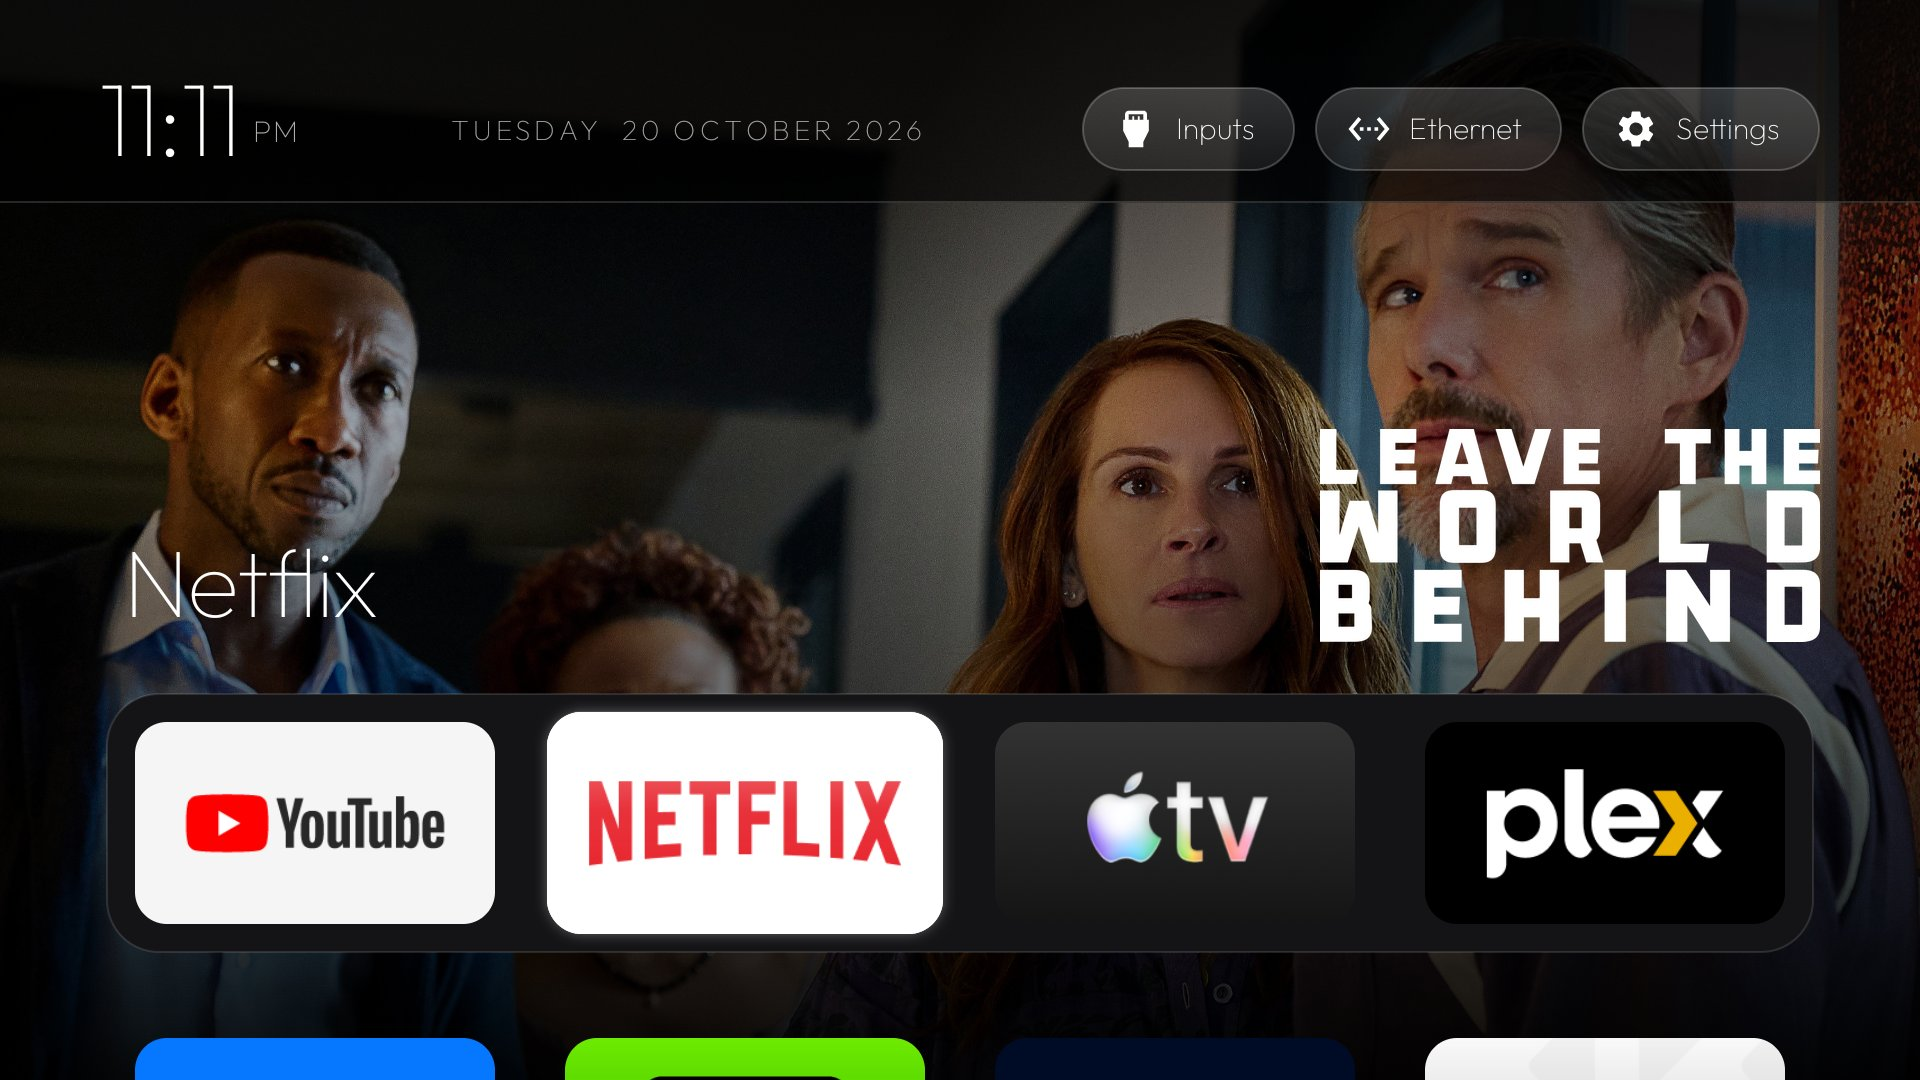
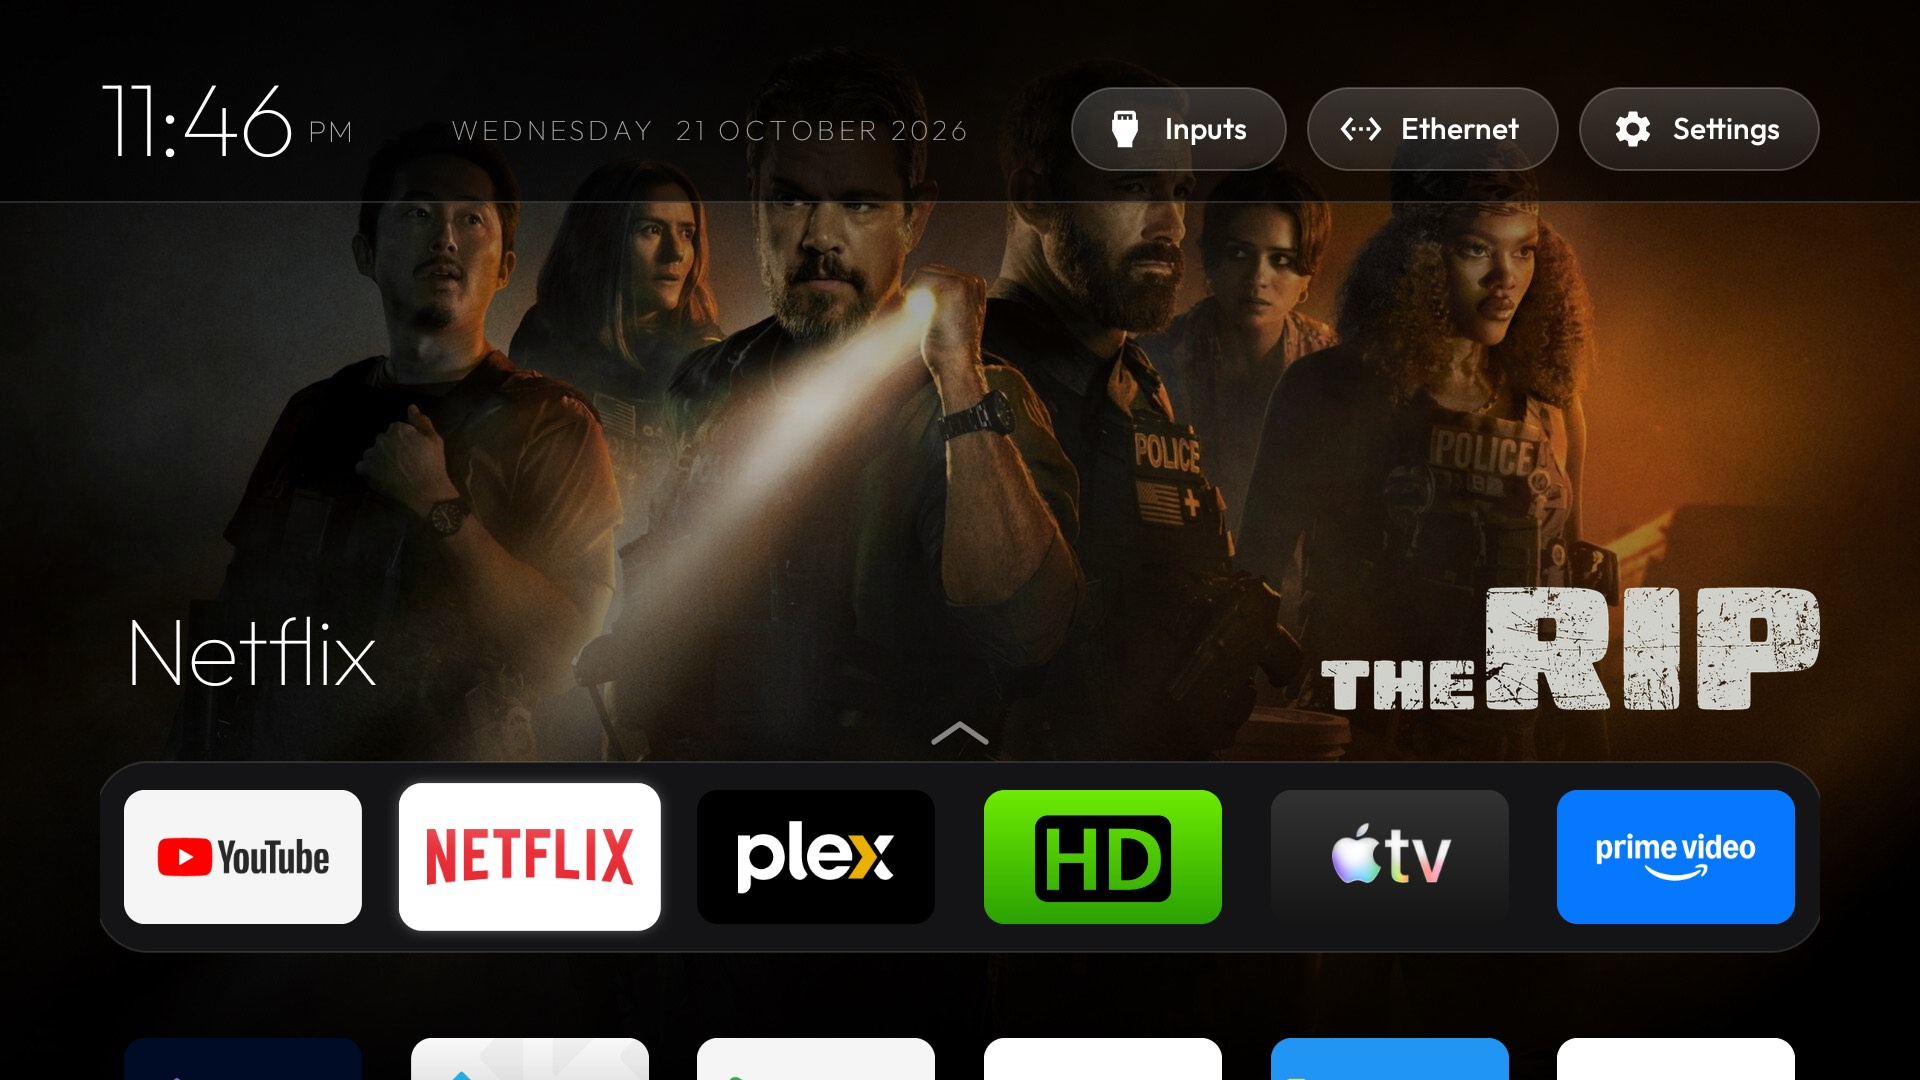
Back to Home without rebuilding the tiles unless apps changed; new screenshots; 1.7.1
Ported from upstream #666: the package receiver lives as long as Home, and in
the background only marks the tiles stale; on resume PackageManager's change
counter catches a missed broadcast. Back from an app with no change, the tiles
stay and only the focused app's picture is renewed (454 ms against 890 ms for a
rebuild on the 940E). After upstream #669, the network pill is no longer
refreshed every minute but when focus reaches the top bar. Carets hide while a
menu or dialog has the window. README screenshots retaken on 1.7.0, with the
picture-alone view added.

Claude-Session: https://claude.ai/code/session_015hnSv5mNfh5ynh98j6bCDo

diff --git a/vibe-launcher/app/src/main/java/com/maydings/vibelauncher/MainActivity.java b/vibe-launcher/app/src/main/java/com/maydings/vibelauncher/MainActivity.java
@@ -13,6 +13,7 @@ import android.content.Context;
 import android.content.Intent;
 import android.content.IntentFilter;
 import android.content.pm.ApplicationInfo;
+import android.content.pm.ChangedPackages;
 import android.content.pm.PackageManager;
 import android.content.res.ColorStateList;
 import android.graphics.Bitmap;
@@ -186,10 +187,16 @@ public class MainActivity extends Activity implements AppAdapter.TileListener {
     private int lastFocused = 0;
     private float density;
     /**
-     * Rebuild Home on resume: an app covered it (or it is starting). Not after a side panel such as the
-     * TV's Settings, which only pauses Home: nothing changed underneath, so Home stays as it was.
+     * Rebuild the tiles on resume: Home is starting, or let go of them for memory (onTrimMemory), or a
+     * permission came in. Coming back from an app rebuilds them only if apps changed meanwhile.
      */
     private boolean rebuildOnResume = true;
+    /** Home was covered by an app (stopped) since the last resume: a new picture for this visit. */
+    private boolean backFromApp;
+    /** An app was installed, updated, removed, enabled or disabled while Home was stopped. */
+    private boolean appsChanged;
+    /** PackageManager's change counter at the last rebuild, for a change whose broadcast never came. */
+    private int packageSequence;
     /** Home was pressed while Home was in front: go back to the first dock tile. */
     private boolean homeToTop;
     /** Between onStart and onStop: Home is (at least partly) on screen. */
@@ -235,7 +242,12 @@ public class MainActivity extends Activity implements AppAdapter.TileListener {
         public void onReceive(Context context, Intent intent) {
             if (Intent.ACTION_PACKAGE_REMOVED.equals(intent.getAction())
                     && intent.getBooleanExtra(Intent.EXTRA_REPLACING, false)) return;
+            if (!started) {   // behind an app: the tiles are rebuilt once, on the way back
+                appsChanged = true;
+                return;
+            }
             adapter.reload();
+            appsChangedUnseen();   // shown already: no rebuild for it on the next return
             // Tiles may have moved: once they settle, bring the glass to wherever focus went.
             grid.postOnAnimation(() -> {
                 RecyclerView.ItemAnimator animator = grid.getItemAnimator();
@@ -260,13 +272,6 @@ public class MainActivity extends Activity implements AppAdapter.TileListener {
             handler.removeCallbacks(this);
             // Builds just started count as fresh, so this lands on the next pool to fall due.
             handler.postDelayed(this, Math.max(MINUTE_MS, backdrops.untilDue(dock)));
-        }
-    };
-    private final Runnable minuteTick = new Runnable() {
-        @Override
-        public void run() {
-            updateWifiLabel();
-            handler.postDelayed(this, MINUTE_MS);
         }
     };
 
@@ -304,6 +309,15 @@ public class MainActivity extends Activity implements AppAdapter.TileListener {
         if (!askPermissionsOnce()) askHomeOnce();
         ConnectivityManager cm = getSystemService(ConnectivityManager.class);
         if (cm != null) cm.registerDefaultNetworkCallback(networkCallback);
+        // For Home's whole life: on screen a change shows at once; behind an app it only marks the tiles out of
+        // date, so coming back rebuilds them only when apps changed.
+        IntentFilter packages = new IntentFilter();
+        packages.addAction(Intent.ACTION_PACKAGE_ADDED);
+        packages.addAction(Intent.ACTION_PACKAGE_REMOVED);
+        packages.addAction(Intent.ACTION_PACKAGE_CHANGED);   // enabled or disabled
+        packages.addDataScheme("package");
+        if (Build.VERSION.SDK_INT >= 33) registerReceiver(packageReceiver, packages, Context.RECEIVER_NOT_EXPORTED);
+        else registerReceiver(packageReceiver, packages);
         IntentFilter screenOn = new IntentFilter(Intent.ACTION_SCREEN_ON);
         if (Build.VERSION.SDK_INT >= 33) registerReceiver(screenReceiver, screenOn, Context.RECEIVER_NOT_EXPORTED);
         else registerReceiver(screenReceiver, screenOn);
@@ -458,6 +472,9 @@ public class MainActivity extends Activity implements AppAdapter.TileListener {
         getWindow().getDecorView().getViewTreeObserver().addOnGlobalFocusChangeListener((oldF, newF) -> {
             boolean onTile = newF != null && newF.getId() == R.id.card;
             if (!onTile) hideGlass();
+            // Arriving on the top bar: the network pill as it is now (it otherwise follows the network
+            // callbacks and each return to Home).
+            if (isPill(newF) && !isPill(oldF)) updateWifiLabel();
             updateCarets();
         });
     }
@@ -469,14 +486,6 @@ public class MainActivity extends Activity implements AppAdapter.TileListener {
         // Back to the rows for this visit. Here rather than in onStop: Home can still be on screen while
         // the app it opened animates in, and the rows jumping back would show.
         showRows(false, false);
-        // Registered while Home is visible, side panels included, so no change is missed under one.
-        IntentFilter packages = new IntentFilter();
-        packages.addAction(Intent.ACTION_PACKAGE_ADDED);
-        packages.addAction(Intent.ACTION_PACKAGE_REMOVED);
-        packages.addAction(Intent.ACTION_PACKAGE_CHANGED);   // enabled or disabled
-        packages.addDataScheme("package");
-        if (Build.VERSION.SDK_INT >= 33) registerReceiver(packageReceiver, packages, Context.RECEIVER_NOT_EXPORTED);
-        else registerReceiver(packageReceiver, packages);
     }
 
     /**
@@ -487,7 +496,9 @@ public class MainActivity extends Activity implements AppAdapter.TileListener {
     @Override
     protected void onNewIntent(Intent intent) {
         super.onNewIntent(intent);
-        if (intent != null && intent.hasCategory(Intent.CATEGORY_HOME) && !rebuildOnResume) homeToTop = true;
+        if (intent != null && intent.hasCategory(Intent.CATEGORY_HOME) && !rebuildOnResume && !backFromApp) {
+            homeToTop = true;   // pressed with Home already in front
+        }
     }
 
     @Override
@@ -502,26 +513,40 @@ public class MainActivity extends Activity implements AppAdapter.TileListener {
         // The pills keep their state while Home is away, and the network callback updates the network one, so
         // this only catches anything missed. Its binder calls (the Wi-Fi name, the TV's inputs) would hold up
         // the first frame back on Home, so after the first resume they run once that frame is drawn.
-        boolean rebuild = rebuildOnResume;
+        boolean rebuild = rebuildOnResume || appsChanged || appsChangedUnseen();
+        boolean returning = backFromApp;
+        appsChanged = false;
+        backFromApp = false;
         if (pillsShown) {
-            refreshPillsAfterNextDraw(rebuild);
+            refreshPillsAfterNextDraw(rebuild || returning);
         } else {
             updateWifiLabel();
             updateInputsButton();
             pillsShown = true;
         }
-        handler.postDelayed(minuteTick, MINUTE_MS);
         if (homeToTop) {
             homeToTop = false;
             lastFocused = 0;
             grid.scrollToPosition(0);
             grid.post(() -> focusTile(0));
         }
-        if (!rebuildOnResume) {   // back from a side panel: Home is as it was
+        if (!rebuild) {
+            if (returning) {
+                // Back from an app with the same apps: the tiles stay as they were (no entrance replayed), and
+                // the focused app gets this visit's picture.
+                backdrops.reshuffle();
+                backdropPkg = null;
+                // Loaded here: the tile usually kept its focus, so no focus change would load it.
+                if (heroShown && lastFocused < COLUMNS) {
+                    showBackdrop(adapter.packageAt(lastFocused), adapter.ambientColorAt(lastFocused));
+                }
+            }
+            // Else back from a side panel, such as the TV's Settings: Home is as it was.
             refreshPools.run();
             return;
         }
         rebuildOnResume = false;
+        appsChangedUnseen();   // caught up: count from here
         glassShown = false;
         glass.setAlpha(0f);
         heroShown = false;
@@ -550,7 +575,6 @@ public class MainActivity extends Activity implements AppAdapter.TileListener {
     @Override
     protected void onPause() {
         super.onPause();
-        handler.removeCallbacks(minuteTick);
         handler.removeCallbacks(refreshPools);
         cancelPictureSoon();
         handler.removeCallbacks(startSlideshow);
@@ -560,9 +584,8 @@ public class MainActivity extends Activity implements AppAdapter.TileListener {
     @Override
     protected void onStop() {
         super.onStop();
-        unregisterReceiver(packageReceiver);
         started = false;
-        rebuildOnResume = true;
+        backFromApp = true;
     }
 
     /**
@@ -583,6 +606,7 @@ public class MainActivity extends Activity implements AppAdapter.TileListener {
     @Override
     protected void onDestroy() {
         unregisterReceiver(screenReceiver);
+        unregisterReceiver(packageReceiver);
         backdrops.close();
         handler.removeCallbacksAndMessages(null);
         ConnectivityManager cm = getSystemService(ConnectivityManager.class);
@@ -621,6 +645,13 @@ public class MainActivity extends Activity implements AppAdapter.TileListener {
         backdropLogo.setImageDrawable(null);
         backdropPkg = null;
         rebuildOnResume = true;
+    }
+
+    /** A menu or dialog opened or closed over Home: its carets go or come back. */
+    @Override
+    public void onWindowFocusChanged(boolean hasFocus) {
+        super.onWindowFocusChanged(hasFocus);
+        updateCarets();
     }
 
     @Override
@@ -1125,7 +1156,8 @@ public class MainActivity extends Activity implements AppAdapter.TileListener {
      * picture alone. None on the lower rows.
      */
     private void updateCarets() {
-        boolean on = !caretsHeld && !slideshow;   // none while the menus move, or in the slideshow
+        // None while the menus move, in the slideshow, or under a menu or dialog (Home hasn't the focus).
+        boolean on = !caretsHeld && !slideshow && hasWindowFocus();
         boolean more = on && pictureOnly && backdropPkg != null && backdrops.stillCount(backdropPkg) > 1;
         showCaret(caretDock, on && !pictureOnly && onDock());
         caretBar.setY(topBar.getHeight() + 4 * density);   // just under the bar
@@ -1143,9 +1175,12 @@ public class MainActivity extends Activity implements AppAdapter.TileListener {
     }
 
     private boolean onTopBar() {
-        View focused = getCurrentFocus();
-        if (focused == null) return false;
-        int id = focused.getId();
+        return isPill(getCurrentFocus());
+    }
+
+    private static boolean isPill(View v) {
+        if (v == null) return false;
+        int id = v.getId();
         return id == R.id.btnInputs || id == R.id.btnWifi || id == R.id.btnSettings;
     }
 
@@ -1548,7 +1583,18 @@ public class MainActivity extends Activity implements AppAdapter.TileListener {
         askHomeOnce();
     }
 
-    /** Runs the pill refresh just after the next frame is drawn; the Inputs pill only when Home rebuilds. */
+    /**
+     * Whether any app changed since the last check, by PackageManager's change counter (one binder call): a
+     * package broadcast can be missed, e.g. while Home's process was frozen. Moves the counter on.
+     */
+    private boolean appsChangedUnseen() {
+        ChangedPackages changed = getPackageManager().getChangedPackages(packageSequence);
+        if (changed == null) return false;
+        packageSequence = changed.getSequenceNumber();
+        return true;
+    }
+
+    /** Runs the pill refresh just after the next frame is drawn; the Inputs pill only back from an app. */
     private void refreshPillsAfterNextDraw(boolean inputs) {
         root.getViewTreeObserver().addOnPreDrawListener(new android.view.ViewTreeObserver.OnPreDrawListener() {
             @Override

diff --git a/README.md b/README.md
@@ -7,7 +7,7 @@ accounts. Free and open source.
 I built Vibe Launcher for my own TVs at home, because I wanted a home screen that just shows my apps
 and gets out of the way. It works well enough for us that I'd like to share it with everyone else.
 
-![Vibe Launcher: Netflix focused in the dock, with a film's backdrop and title logo filling the screen](vibe-launcher/docs/home.jpg)
+![Vibe Launcher: Netflix focused in the dock, with The Rip's backdrop and title logo filling the screen](vibe-launcher/docs/home.jpg)
 
 **[Download the latest APK](https://github.com/maydings/vibe-launcher/releases/latest/download/vibe-launcher.apk)**
 · Android TV and Google TV, Android 8.0 or newer · under 1 MB
@@ -55,6 +55,8 @@ A play button sits under the glass in the app's place: hold OK (or press and hol
 up, then opens the film, show or video in that app, or the app itself when there's no single title.
 Small arrows at the screen's edges show where the remote goes; scroll quickly and the rows stay put.
 
+![Just the picture: The Rip's backdrop on its own, with the play button in Netflix's place and arrows at the edges](vibe-launcher/docs/picture.jpg)
+
 ### Slideshow
 
 Leave Home alone for a minute and the apps and the top bar slide away: the backdrops of every app in
@@ -83,7 +85,7 @@ A frosted bar with the clock and date, and three menus. Left and Right move betw
 **General**: tiles per row, hiding inactive inputs, language, reloading the backdrops and the software
 version.
 
-| ![Vibe Launcher settings, General tab: tiles per row, language and software version](vibe-launcher/docs/settings-general.jpg) | ![The language list, each language in its own name](vibe-launcher/docs/language.jpg) |
+| ![Vibe Launcher settings, General tab: tiles per row, hide inactive inputs, language, reload backdrops and software version](vibe-launcher/docs/settings-general.jpg) | ![The language list, each language in its own name](vibe-launcher/docs/language.jpg) |
 |---|---|
 
 - **Tiles per row**: 4, 5 or 6. Tiles shrink to fit and the dock holds as many apps. Until you pick,
